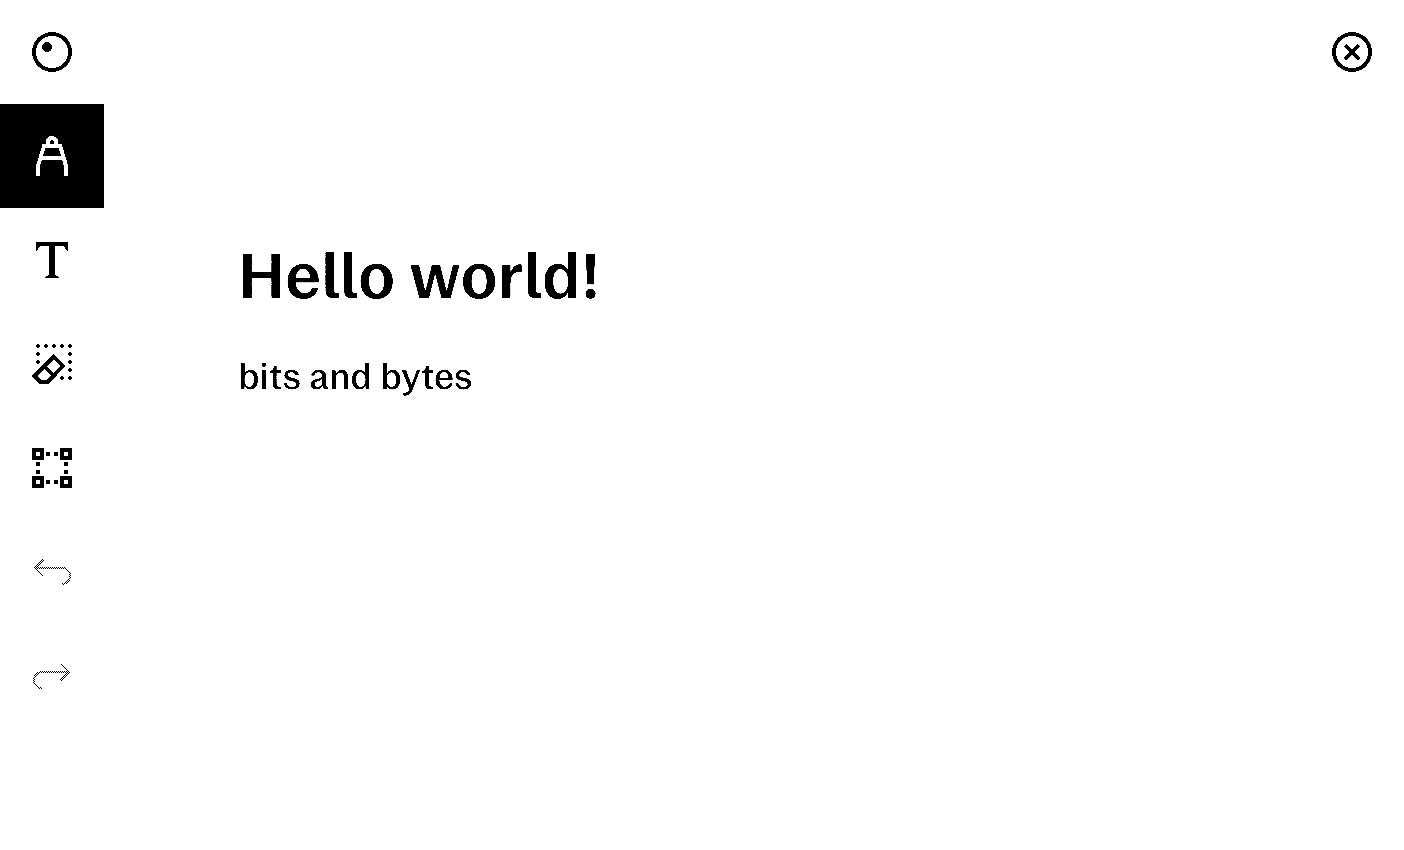
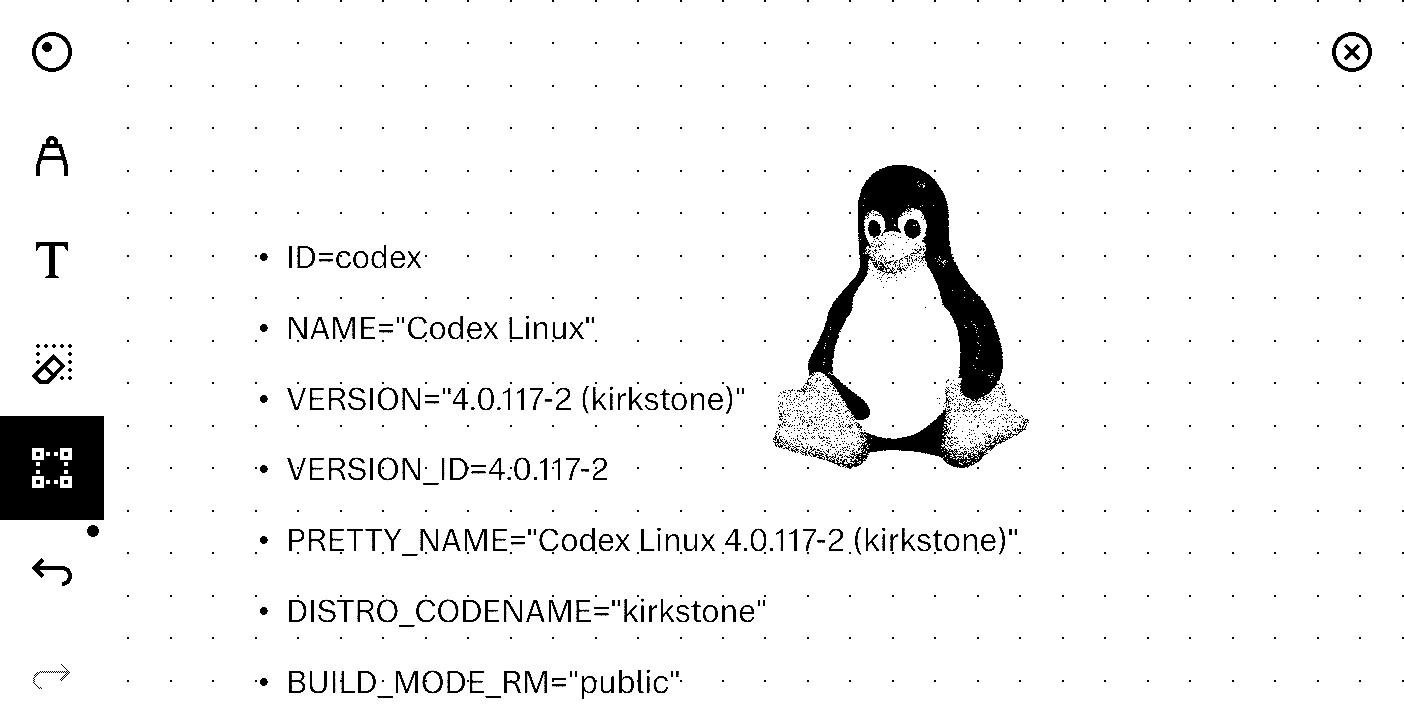
update example to show both text and image functionality

diff --git a/README.md b/README.md
@@ -10,14 +10,16 @@ Serializer for the reMarkable binary format was created through [reMarkable kait
 This tool is intended to be used on device to allow external apps 
 such as KOReader to copy/paste parts of opened documents into rM notebooks.
 
-It is possible to run it outside of reMarkable and save generated page to a .rm file.
+It is also possible to run it outside of reMarkable and save generated page to a .rm file.
+
 Example usage:
 ```
-karmtka -s 2 -w 2 -t $'Hello world!\n' -s 3 -w 1 -t 'bits and bytes' -O
+cat /etc/os-release | karmtka -g tux.png -q 15 -s 4 -x -i current --overwrite
 ```
-Above line will create text page with header and a single paragraph and save it to a local file.
+Above line will inject image from the file tux.png and piped output of the cat command 
+into the current reMarkable notebook page.
 
-![view of the generated text page](docs/example.png)
+![view of the generated reMarkable page](docs/example.png)
 
 ## Options
 - `-t, --text` text content of the reMarkable page
@@ -56,7 +58,7 @@ You can compile this repo to a binary standalone file using Nuitka the python co
 
 To compile it to a standalone file, install Nuitka through pip and run:
 ```
-nuitka --deployment --mode=onefile src/main.py
+python -m nuitka --deployment --mode=onefile src/main.py
 ```
 
 ### Disclaimer(s)
